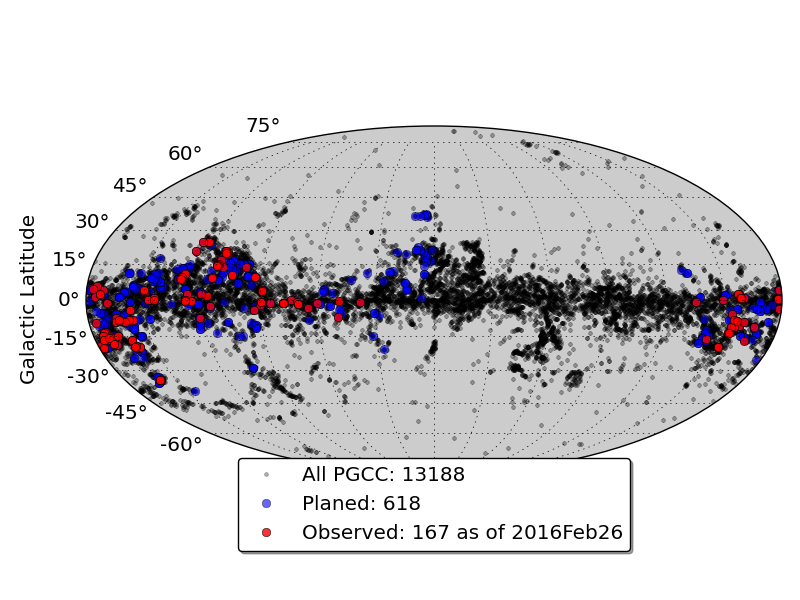
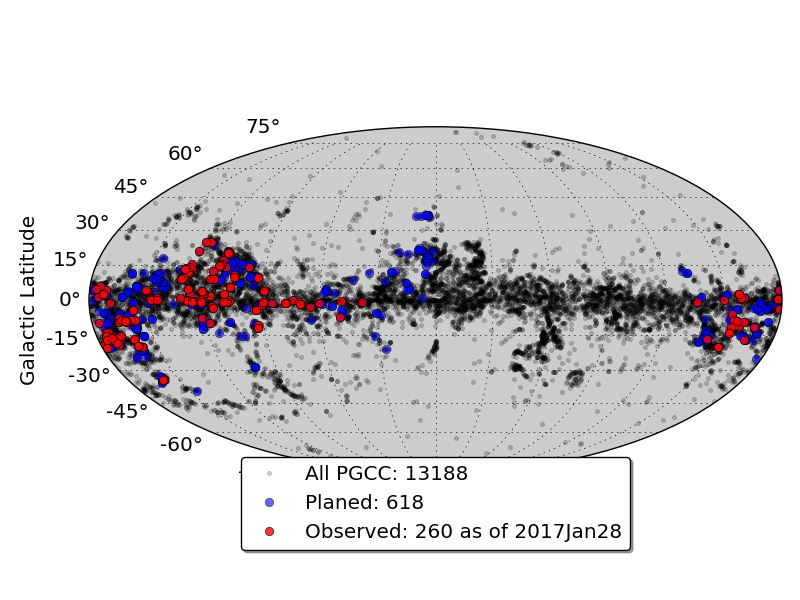
update to 2017Jan28

diff --git a/index.html b/index.html
@@ -27,7 +27,7 @@ Star formation studies in the last decades have usually concentrated on inner Ga
 </p>
 
 <p>
-SAMPLING is an ongoing ESO Public Survey that will obtain <sup>12</sup>CO and <sup>13</sup>CO (2-1) maps toward 600+ PGCC sources, using the SMT 12m telescope of the Arizona Radio Observatory. Combined with existing Herschel and Planck data sets, we will resolve the clump structure, derive the internal variations of density, turbulent and chemical properties, and also make a connection to Galactic structure.
+SAMPLING is an ongoing ESO Public Survey that will obtain <sup>12</sup>CO and <sup>13</sup>CO (2-1) maps toward 600+ PGCC sources, using the SMT 10m telescope of the Arizona Radio Observatory. Combined with existing Herschel and Planck data sets, we will resolve the clump structure, derive the internal variations of density, turbulent and chemical properties, and also make a connection to Galactic structure.
 This survey will provide the first major step forward to characterize molecular clouds and star formation on truly Galactic scales.
 </p>
 
@@ -43,10 +43,9 @@ This survey will provide the first major step forward to characterize molecular 
 <h3>
 <a id="data" class="anchor" href="#data" aria-hidden="true"><span aria-hidden="true" class="octicon octicon-link"></span></a>Data</h3>
 
-<p>We plan to make the first data release (DR1) in September 2016, along with an introductory paper.</p>
 
 <p>
-The raw data can be obtained from a temporary
+The raw data can be obtained from this
 <a href=
 "ftp://ftp.eso.org/pub/general/kwang/SAMPLING"
 >
@@ -58,7 +57,61 @@ We will replace the link with a permanent website.
 <h3>
 <a id="people" class="anchor" href="#people" aria-hidden="true"><span aria-hidden="true" class="octicon octicon-link"></span></a>People</h3>
 
-<p>Ke Wang (ESO) et al. (many people to be added)</p>
+<p>
+PI: <a href=
+"http://www.eso.org/~kwang"
+>
+K. Wang</a> (ESO Garching, Germany)<br />
+CoIs: <br />
+L. Testi, A. Ginsburg, S. Zahorecz, Z.Y. Zhang, K. Immer (ESO Garching, Germany)<br />
+P. Caselli, J. Pineda, V. Sokolov, S.Y. Feng, G.X. Li (MPE, Germany)<br />
+H. Beuther, Th. Henning (MPIA, Germany)<br />
+T. Pillai (MPIfR, Germany)<br />
+A. Meng, X. Guan (Universitat zu Koln, Germany)<br />
+
+T. Liu, C.W. Lee, K.T. Kim, M.C. Lee (KASI, Korea)<br />
+Y.F. Wu, C.P. Zhang, P. Chen, T.W. Zhang, X.C. Liu, R.J. Hu (Peking University, China)<br />
+D. Li, J.H. Yuan (NAOC, China)<br />
+J. Yang (PMO, China)<br />
+K.P. Qiu (Nanjing University, China)<br />
+S.L. Qin (Yunnan University, China)<br />
+
+S.Y. Liu, N. Hirano, H.B. Liu, Y.W. Tang (ASIAA, Taiwan)<br />
+H.R. Chen, S.P Lai (National Tsing Hua University, Taiwan)<br />
+K. Tatematsu, P. Sanhueza (NAOJ, Japan)<br />
+
+F. van der Tak (SRON, The Netherlands)<br />
+E. Falgarone (LERMA, ENS, France)<br />
+I. Ristorcelli, L. Montier, A. Hughes (IRAP, France)<br />
+M. Beltran, F. Fontani, M. Walmsley (INAF Arcetri, Italy)<br />
+M. Juvela (University of Helsinki, Finland)<br />
+L.V. Toth (Eotvos Lorand University Budapest, Hungary)<br />
+Y. Wang (Univ. Geneva, Switzerland)<br />
+A. Rivera-Ingraham (ESA/ESAC, Spain)<br />
+
+G. Fuller (University of Manchester, UK)<br />
+M. Thompson (University of Hertfordshire, UK)<br />
+I. Jimenez-Serra (University College London, UK)<br />
+S. Longmore (Liverpool John Moores University, UK)<br />
+N. Peretto (Cardiff University, UK)<br />
+
+R. Galvan-Madrid (UNAM, Mexico)<br />
+L. Ziurys, B.E. Svoboda (Arizona Radio Observatory/University of Arizona, USA)<br />
+Q. Zhang, X. Lu, C. Battersby (Harvard CfA, USA)<br />
+P.F. Goldsmith (NASA/JPL, USA)<br />
+J. Tan, S. Kong (University of Florida, USA)<br />
+J. Malinen (Florida State University, USA)<br />
+P. McGehee, R. Paladini (IPAC, Pasadena, USA)<br />
+F.J. Du (University of Michigan, USA)<br />
+
+M. Cunningham, P. Jones, V. Lowe (University of New South Wales, Australia)<br />
+J. Rathborne (CSIRO Astronomy and Space Science, Australia)<br />
+D. Mardones, L. Bronfman, L. Zhu, N. Lo (University of Chile, Chile)
+</p>
+
+
+
+
 
 
       <footer class="site-footer">
